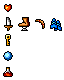
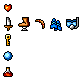
Sprite for the fifth item, not yet implemented

diff --git a/src/savedata.js b/src/savedata.js
@@ -21,6 +21,7 @@ let copyProgress = (progress) => {
         "openedChests": progress.openedChests,
         "openedDoors": progress.openedDoors,
         "boughtItems": progress.boughtItems,
+        "obtainedItems": progress.obtainedItems,
     };
 };
 

diff --git a/src/shop.js b/src/shop.js
@@ -30,7 +30,7 @@ const ITEM_IDS = [
 // What do you mean I'm hard-coding prices?
 // ...well, I am. You were right.
 const PRICES = [
-    10, 10, 10, 20, 30,
+    10, 20, 10, 20, 30,
     30, 20, 30, 50, 20
 ];
 
